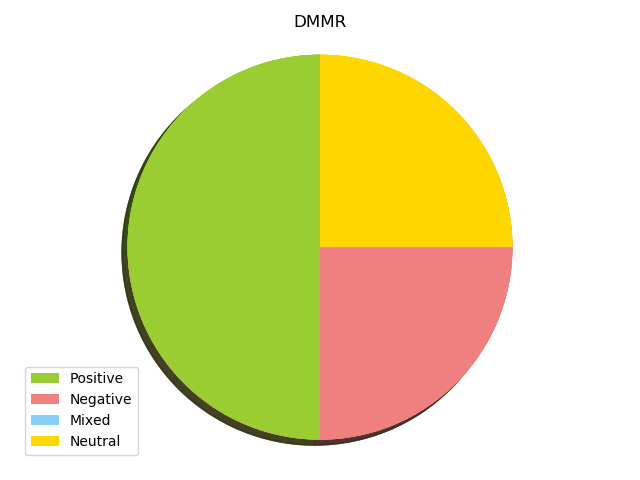
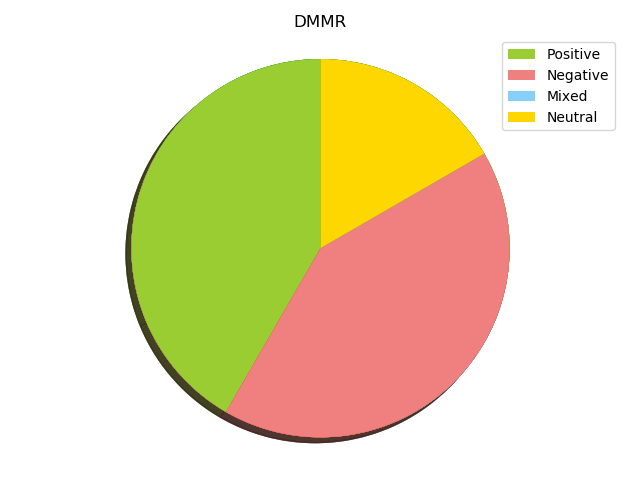
Add files via upload

diff --git a/gui.py b/gui.py
@@ -1,0 +1,146 @@
+from tkinter import *
+from tkinter import messagebox
+import boto3
+import json 
+import csv
+import matplotlib
+matplotlib.use("TkAgg")
+from matplotlib import pyplot as plt
+from matplotlib.backends.backend_pdf import PdfPages
+
+window = Tk()
+window.title("StudentReacts")
+
+window.geometry('200x200')
+
+def create_report():
+    inf2a = []
+    inf2ccs = []
+    inf2cse = []
+    dmmr = []
+
+    with open('feedback.csv') as csv_file:
+        csv_reader = csv.reader(csv_file, delimiter=',')
+        line_count = 0
+
+        for row in csv_reader:
+            if line_count == 0:
+                line_count += 1
+            else:
+                if (row[1] == 'INF2A'):
+                    inf2a.append(row[2])
+                elif (row[1] == 'INF2C-CS'):
+                    inf2ccs.append(row[2])
+                elif (row[1] == 'INF2C-SE'):
+                    inf2cse.append(row[2])
+                elif (row[1] == 'DMMR'):
+                    dmmr.append(row[2])
+
+        course_arrays = [inf2a, inf2ccs, inf2cse, dmmr]
+
+        for course in course_arrays:
+            mixedcount = 0
+            positivecount = 0
+            negativecount = 0
+            neutralcount = 0
+            total = 0
+            for feedback in course:
+                total += 1
+                comprehend = boto3.client(service_name='comprehend', region_name='us-east-1')
+                result = json.dumps(comprehend.detect_sentiment(Text=feedback, LanguageCode='en'), sort_keys=True, indent=4)
+                stuff = json.loads(result)
+
+                for k in stuff.items():
+                    if 'Sentiment' in k:
+                        result = k[1].lower()
+                        if (result == "positive"):
+                            positivecount += 1
+                        if (result == "negative"):
+                            negativecount += 1
+                        if (result == "neutral"):
+                            neutralcount += 1
+                        if (result == "mixed"):
+                            mixedcount += 1
+
+            #print("COURSE NAME: " + row[1])
+            print("")
+            if course == inf2a:
+                print("COURSE NAME: INF2A")
+            elif course == inf2ccs:
+                print("COURSE NAME: INF2C-CS")
+            elif course == inf2cse:
+                print("COURSE NAME: INF2C-SE")
+            elif course == dmmr:
+                print("COURSE NAME: DMMR")
+
+            print("POSITIVE: " + "%.2f" % (positivecount * 100/ total) + "%")
+            print("NEGATIVE: " + "%.2f" % (negativecount * 100/ total) + "%")
+            print("MIXED: " + "%.2f" % (mixedcount * 100/ total) + "%")
+            print("NEUTRAL: " + "%.2f" % (neutralcount * 100/ total) + "%")
+            print("")
+            print("#######################################")
+            print("")
+
+
+    # for course in course_arrays:
+    
+            # Data to plot
+            title = ""
+            if course == inf2a:
+                title = "INF2A"
+            elif course == inf2ccs:
+                title = "INF2C-CS"
+            elif course == inf2cse:
+                title = "INF2C-SE"
+            elif course == dmmr:
+                title = "DMMR"
+
+            plt.title(title)
+            labels = 'Positive', 'Negative', 'Mixed', 'Neutral'
+            sizes = [positivecount * 100/ total, negativecount * 100/ total, mixedcount * 100/ total, neutralcount * 100/ total]
+            colors = ['yellowgreen', 'lightcoral', 'lightskyblue', 'gold']
+            plt.pie(sizes)
+            patches, texts = plt.pie(sizes, colors=colors, shadow=True, startangle=90)
+            plt.legend(patches, labels, loc="best")
+            plt.axis('equal')
+            plt.tight_layout()
+            #plt.show()
+            plt.savefig(title + '_report.png')
+    
+    messagebox.showinfo('MESSAGE', 'Reports are successfully generated!')
+    exit()
+
+lbl = Label(window, text = "", font = ("Arial Bold",20))
+lbl.pack()
+
+btn = Button(window, text = "Generate Report", command = create_report, font = ("Arial",20))
+btn.pack()
+
+
+window.mainloop()
+
+
+#root.mainloop()
+        #if row > 0:
+            #text = (row[2])
+
+#            comprehend = boto3.client(service_name='comprehend', region_name='us-east-1')
+            #text = "I am not sure about my feelings towards Calculus."
+ #           result = json.dumps(comprehend.detect_sentiment(Text=text, LanguageCode='en'), sort_keys=True, indent=4)
+  #          stuff = json.loads(result)
+
+           # print(stuff)
+
+    #        result = ""
+   #         for k in stuff.items():
+     #           if 'Sentiment' in k:
+      #              result = k[1].lower()
+       #             print(k[1])
+
+        #    for j in stuff.items():
+         #       if 'SentimentScore' in j:
+          #          for i in (j[1]).keys():
+           #             if result.lower() in i.lower():
+            #                percentage = j[1][i] * 100    
+             #               print("%.2f" % percentage + "%")
+
